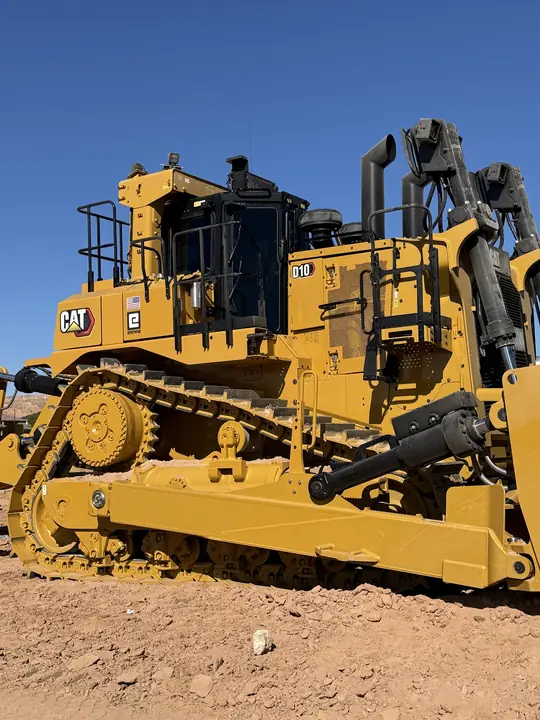
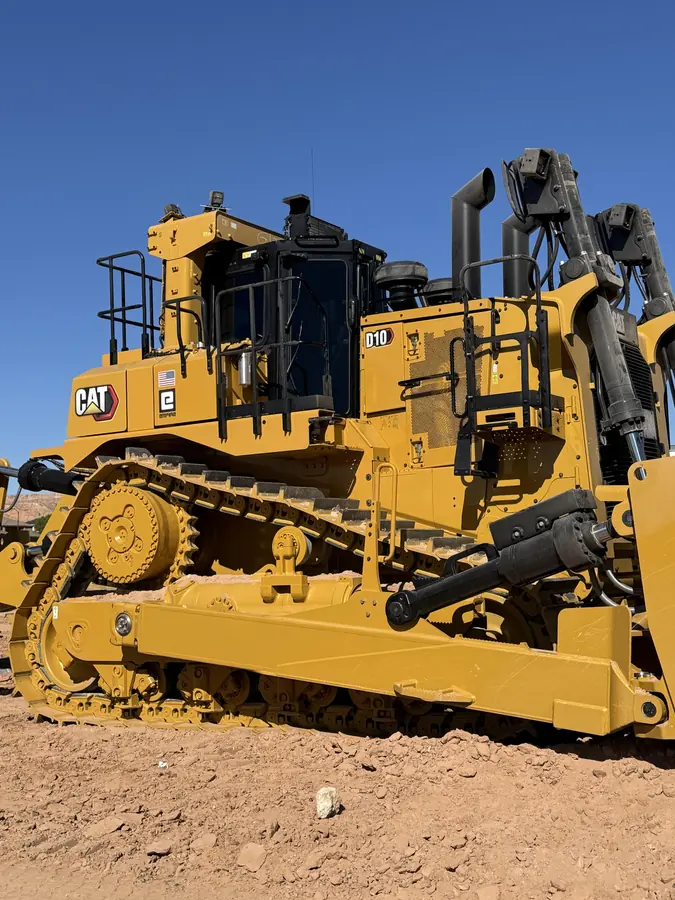
Use full-resolution photos from Facebook and the old site's media library

diff --git a/index.html b/index.html
@@ -20,7 +20,7 @@
 <link href="https://fonts.googleapis.com/css2?family=Archivo:wdth,wght@62..125,400..900&family=Permanent+Marker&display=swap" rel="stylesheet">
 <link rel="preload" as="image" href="assets/hero-portrait.webp" media="(max-width: 760px)">
 <link rel="preload" as="image" href="assets/hero-wide.webp" media="(min-width: 761px)">
-<link rel="stylesheet" href="styles.css?v=2">
+<link rel="stylesheet" href="styles.css?v=3">
 <script type="application/ld+json">
 {
   "@context": "https://schema.org",
@@ -33,7 +33,7 @@
   "email": "nightshifttint@gmail.com",
   "image": [
     "https://gcwebdesigner1-sudo.github.io/night-shift-tint/assets/og.jpg",
-    "https://gcwebdesigner1-sudo.github.io/night-shift-tint/assets/squarebody.webp",
+    "https://gcwebdesigner1-sudo.github.io/night-shift-tint/assets/raptor.webp",
     "https://gcwebdesigner1-sudo.github.io/night-shift-tint/assets/shop-door.webp"
   ],
   "logo": "https://gcwebdesigner1-sudo.github.io/night-shift-tint/assets/apple-touch-icon.png",
@@ -135,7 +135,7 @@
   <div class="hero-plate">
     <picture>
       <source media="(min-width: 761px)" srcset="assets/hero-wide.webp">
-      <img src="assets/hero-portrait.webp" alt="Black Ram 3500 Laramie with dark ceramic window tint under arena lights" width="707" height="828" fetchpriority="high">
+      <img src="assets/hero-portrait.webp" alt="Black Ram 3500 Laramie with dark ceramic window tint under arena lights" width="1365" height="2048" fetchpriority="high">
     </picture>
   </div>
   <div class="hero-night" aria-hidden="true"></div>
@@ -161,42 +161,42 @@
 
     <div class="svc-grid">
       <figure class="svc-stage" aria-hidden="true">
-        <img class="on" data-key="auto" src="assets/squarebody.webp" alt="" loading="lazy">
+        <img class="on" data-key="auto" src="assets/raptor.webp" alt="" loading="lazy">
         <img data-key="utv" src="assets/xpedition.webp" alt="" loading="lazy">
         <img data-key="equip" src="assets/dozer.webp" alt="" loading="lazy">
         <img data-key="rv" src="assets/camper.webp" alt="" loading="lazy">
-        <img data-key="home" src="assets/home-window.webp" alt="" loading="lazy">
-        <img data-key="biz" src="assets/shop-door.webp" alt="" loading="lazy">
+        <img data-key="home" src="assets/front-door.webp" alt="" loading="lazy">
+        <img data-key="biz" src="assets/storefront.webp" alt="" loading="lazy">
       </figure>
 
       <ol class="svc-list">
         <li class="svc" data-key="auto">
-          <img class="svc-thumb" src="assets/squarebody-sm.webp" alt="Black squarebody Chevy pickup with tinted windows inside the Night Shift Tint shop" loading="lazy" width="540" height="720">
+          <img class="svc-thumb" src="assets/raptor-sm.webp" alt="Ford Ranger Raptor with fresh ceramic tint inside the Night Shift Tint shop" loading="lazy" width="675" height="900">
           <h3>Cars, trucks and SUVs</h3>
           <p>Geoshield C2 ceramic film on daily drivers, work trucks and the one you only take out on Sundays. Ceramic keeps the cab cooler in a Cedar City July without having to go limo dark, and it won't mess with your phone or GPS.</p>
         </li>
         <li class="svc" data-key="utv">
-          <img class="svc-thumb" src="assets/xpedition-sm.webp" alt="Polaris Xpedition side-by-side with ceramic tint on the doors and rear glass" loading="lazy" width="540" height="720">
+          <img class="svc-thumb" src="assets/xpedition-sm.webp" alt="Polaris Xpedition side-by-side with ceramic tint on the doors and rear glass" loading="lazy" width="675" height="900">
           <h3>UTVs and side-by-sides</h3>
           <p>RZR, Ranger, General, Xpedition, Maverick, Defender. A tinted cab is a lot easier to sit in after a day on the trails out of Brian Head or Three Peaks, and the plastics stop baking.</p>
         </li>
         <li class="svc" data-key="equip">
-          <img class="svc-thumb" src="assets/dozer-sm.webp" alt="CAT D10 dozer on a red dirt job site with tinted cab glass" loading="lazy" width="540" height="720">
+          <img class="svc-thumb" src="assets/dozer-sm.webp" alt="CAT D10 dozer on a red dirt job site with tinted cab glass" loading="lazy" width="675" height="900">
           <h3>Heavy equipment</h3>
           <p>Excavators, dozers, skid steers, tractors. Operators sit in that glass box ten hours a day. Tint cuts the glare off the dirt and takes load off the cab A/C. We come to the job site or the yard.</p>
         </li>
         <li class="svc" data-key="rv">
-          <img class="svc-thumb" src="assets/camper-sm.webp" alt="Camper trailer window with fresh dark tint" loading="lazy" width="332" height="720">
+          <img class="svc-thumb" src="assets/camper-sm.webp" alt="Camper trailer window with fresh dark tint" loading="lazy" width="416" height="900">
           <h3>Campers and RVs</h3>
           <p>Trailer and motorhome windows get the same treatment as your truck. More privacy at the campground and a cooler camper when it's parked in the sun.</p>
         </li>
         <li class="svc" data-key="home">
-          <img class="svc-thumb" src="assets/home-window-sm.webp" alt="Large picture window on a Cedar City home with reflective window film" loading="lazy" width="540" height="720">
+          <img class="svc-thumb" src="assets/front-door-sm.webp" alt="Glass double front doors on a stone and board-and-batten home after window film" loading="lazy" width="675" height="900">
           <h3>Home window tint</h3>
           <p>Film for west-facing rooms and big picture windows. You keep the view, lose most of the glare, and your floors and couch stop fading. Films block up to 99% of UV.</p>
         </li>
         <li class="svc" data-key="biz">
-          <img class="svc-thumb" src="assets/shop-door-sm.webp" alt="Glass door at the Night Shift Tint shop with the moon logo" loading="lazy" width="540" height="720">
+          <img class="svc-thumb" src="assets/storefront-sm.webp" alt="Floor-to-ceiling commercial storefront glass during a window film install" loading="lazy" width="900" height="900">
           <h3>Commercial and storefront</h3>
           <p>Offices, shops and storefronts. Window film keeps the front of the store from cooking, cuts glare on screens and adds privacy for back offices.</p>
         </li>
@@ -235,7 +235,7 @@
         </defs>
         <rect width="800" height="520" fill="#0d0f16"/>
         <g clip-path="url(#glass)">
-          <image href="assets/excavator.webp" x="-20" y="-140" width="860" height="1147" preserveAspectRatio="xMidYMid slice"/>
+          <image href="assets/excavator-view.webp" x="-20" y="-140" width="860" height="1147" preserveAspectRatio="xMidYMid slice"/>
           <rect id="tint-layer" width="800" height="520" fill="#05060a" opacity="0.1"/>
           <path d="M210 120 L330 470 L380 470 L260 110 Z" fill="#fff" opacity="0.07"/>
         </g>
@@ -248,17 +248,21 @@
 
 <section class="work" id="work">
   <div class="wrap">
-    <h2>Recent work around Iron County.</h2>
+    <h2>Recent work around Southern Utah.</h2>
   </div>
   <ul class="gallery">
-    <li class="g-tall"><img src="assets/f350.webp" alt="Dark gray Ford F-350 Platinum dually with tinted windows in a garage" loading="lazy" width="1050" height="1400"><span>F-350 Platinum</span></li>
-    <li><img src="assets/optima-sm.webp" alt="White Kia Optima with dark rear window tint inside the shop" loading="lazy" width="540" height="720"><span>Kia Optima</span></li>
-    <li><img src="assets/ram-work-sm.webp" alt="White Ram 2500 work truck with tinted windows in a Cedar City parking lot" loading="lazy" width="405" height="720"><span>Ram 2500</span></li>
-    <li class="g-tall"><img src="assets/excavator.webp" alt="Yellow excavator with tinted cab on a red dirt job site in Southern Utah" loading="lazy" width="878" height="1171"><span>Excavator cab, on the job site</span></li>
-    <li><img src="assets/silverado-sm.webp" alt="White Chevy Silverado with fresh windshield strip and side tint" loading="lazy" width="405" height="720"><span>Silverado</span></li>
-    <li><img src="assets/ford-shop-sm.webp" alt="White Ford pickup with tinted side windows in the shop" loading="lazy" width="405" height="720"><span>Ford in the shop</span></li>
-    <li><img src="assets/skid-steer-sm.webp" alt="Yellow skid steer with tinted cab glass in an equipment trailer" loading="lazy" width="405" height="720"><span>Skid steer</span></li>
-    <li class="g-tall"><img src="assets/living-room.webp" alt="Living room windows in a Cedar City home after residential window film" loading="lazy" width="554" height="1200"><span>Living room windows</span></li>
+    <li class="g-tall"><img src="assets/f350.webp" alt="Dark gray Ford F-350 Platinum dually with tinted windows in a garage" loading="lazy" width="1200" height="1600"><span>F-350 Platinum</span></li>
+    <li><img src="assets/raptor-rear-sm.webp" alt="Ford Ranger Raptor with dark rear window tint in the shop" loading="lazy" width="675" height="900"><span>Ranger Raptor</span></li>
+    <li><img src="assets/silverado-dirt-sm.webp" alt="Lifted white Chevy Silverado with tinted windows on a dirt lot at dusk" loading="lazy" width="900" height="782"><span>Silverado</span></li>
+    <li class="g-tall"><img src="assets/genesis.webp" alt="White Genesis GV70 with ceramic window tint" loading="lazy" width="1200" height="1600"><span>Genesis GV70</span></li>
+    <li><img src="assets/loader-cliffs-sm.webp" alt="CAT 966H loader with tinted cab glass below red cliffs" loading="lazy" width="900" height="899"><span>CAT 966H loader</span></li>
+    <li><img src="assets/terribles-sm.webp" alt="Terrible's gas station storefront in Fillmore with commercial window film" loading="lazy" width="720" height="720"><span>Terrible's, Fillmore</span></li>
+    <li class="g-tall"><img src="assets/excavator.webp" alt="CAT excavator with tinted cab on a Southern Utah job site" loading="lazy" width="1146" height="1720"><span>CAT excavator</span></li>
+    <li><img src="assets/ram-excavator-sm.webp" alt="White Ram 2500 with window tint parked by an excavator" loading="lazy" width="900" height="899"><span>Ram 2500</span></li>
+    <li><img src="assets/kubota-sm.webp" alt="Kubota mini excavator with tinted cab glass" loading="lazy" width="675" height="900"><span>Kubota mini ex</span></li>
+    <li><img src="assets/squarebody-sm.webp" alt="Black squarebody Chevy pickup with tinted windows inside the Night Shift Tint shop" loading="lazy" width="675" height="900"><span>Squarebody Chevy</span></li>
+    <li><img src="assets/rav4-sm.webp" alt="White Toyota RAV4 with fresh window tint" loading="lazy" width="675" height="900"><span>RAV4</span></li>
+    <li><img src="assets/peterbilt-sm.webp" alt="Classic Peterbilt semi with tinted windows" loading="lazy" width="720" height="720"><span>Peterbilt</span></li>
   </ul>
 </section>
 

diff --git a/styles.css b/styles.css
@@ -238,7 +238,7 @@ input[type="range"] { width: 100%; accent-color: var(--moon); height: 32px; }
 .work h2 { margin-bottom: clamp(32px, 5vw, 60px); max-width: 760px; }
 .gallery {
   list-style: none; margin: 0 auto; padding: 0 var(--gutter); max-width: 1240px;
-  display: grid; grid-template-columns: repeat(3, 1fr); grid-auto-rows: 260px; gap: 12px;
+  display: grid; grid-template-columns: repeat(3, 1fr); grid-auto-rows: 260px; gap: 12px; grid-auto-flow: dense;
 }
 .gallery li { position: relative; overflow: hidden; border-radius: 4px; background: var(--surface); }
 .gallery li.g-tall { grid-row: span 2; }
